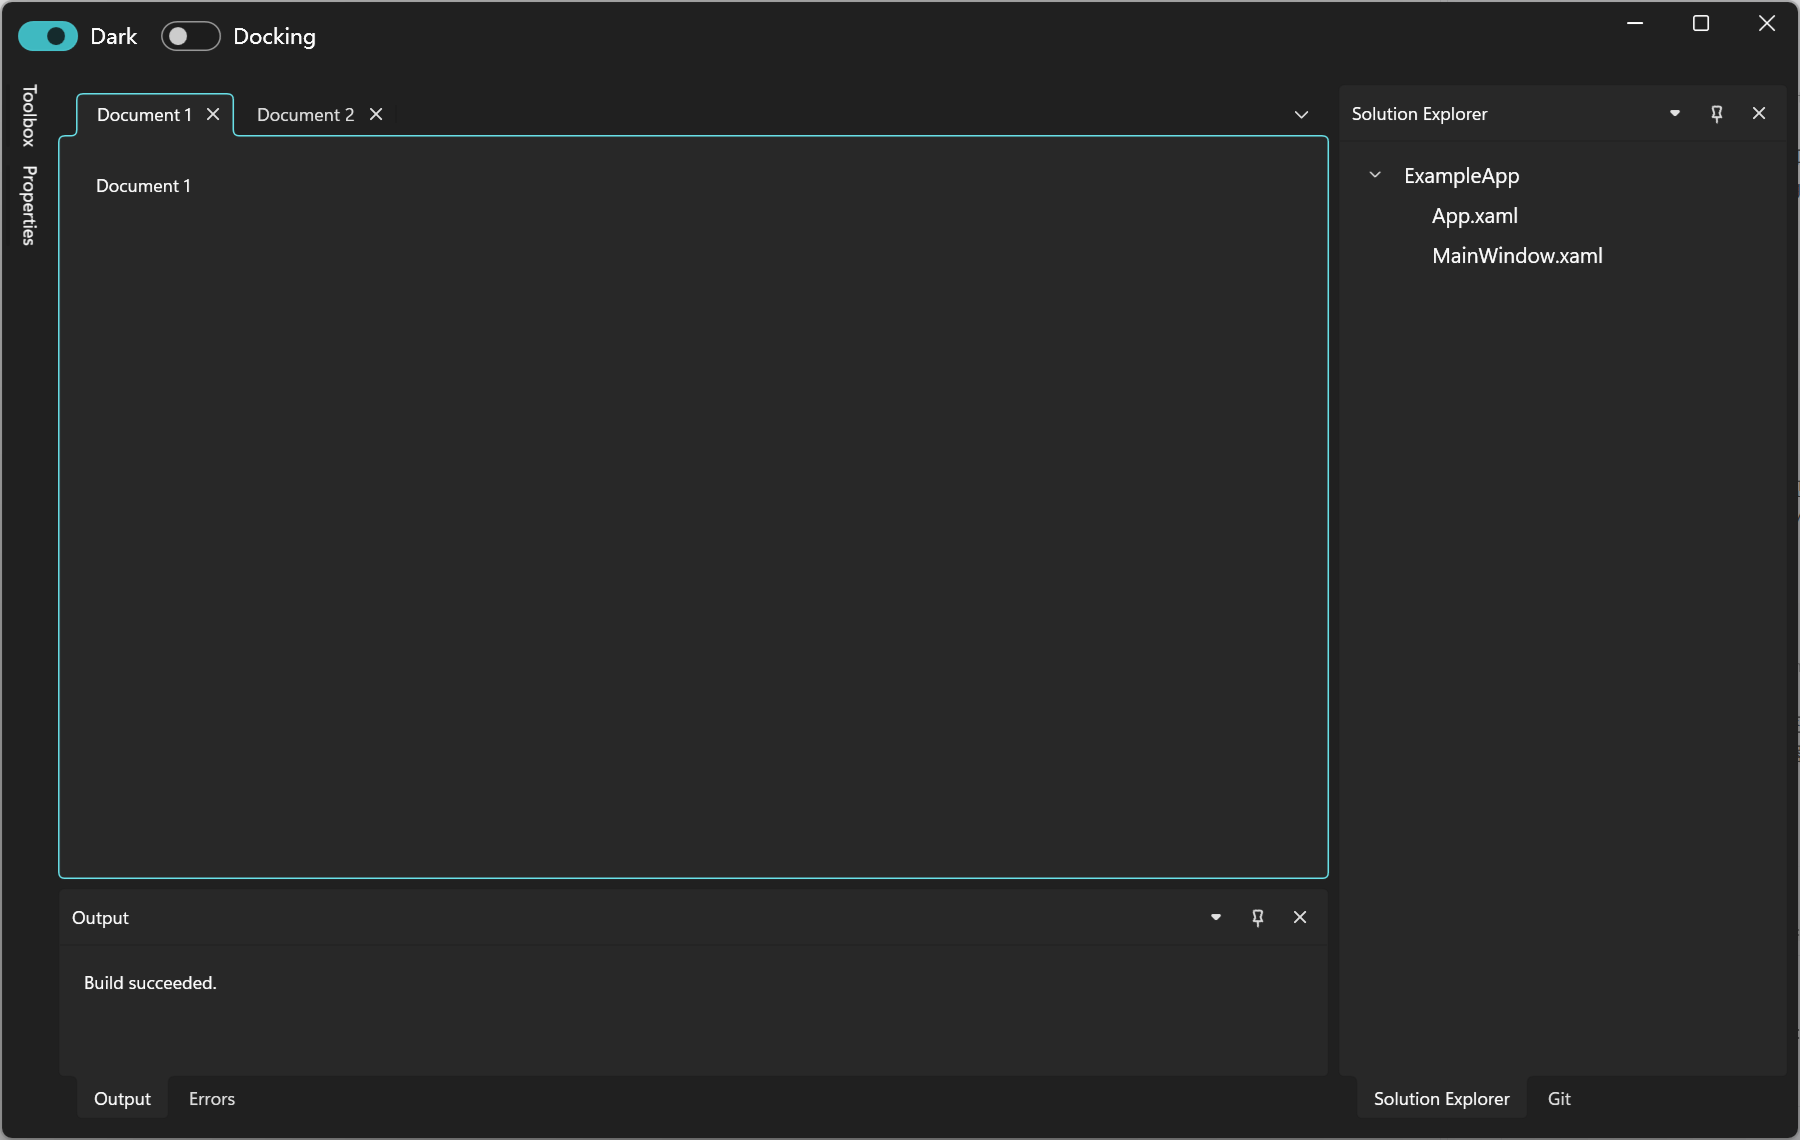
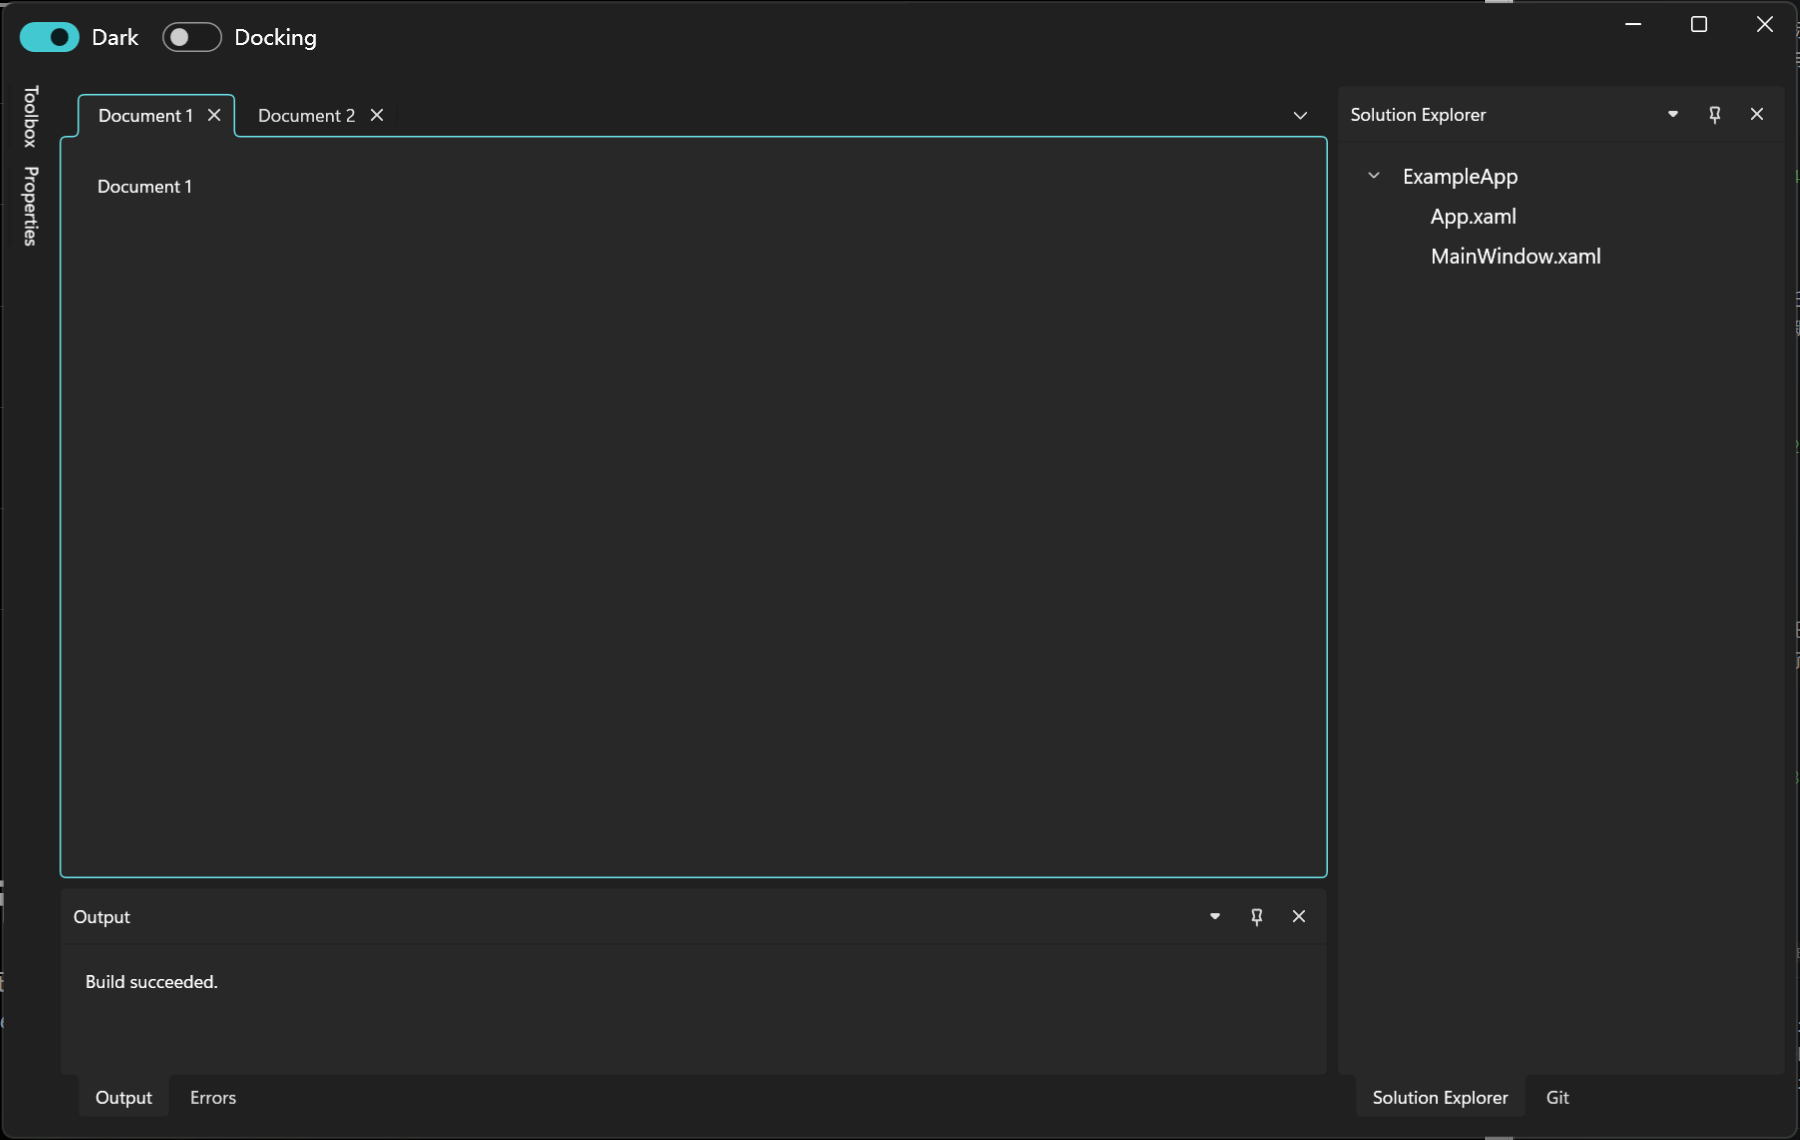
Refine floating pane border and previews
Add a DockPaneSurface behind the pane border, switch floating-window styling to a MultiDataTrigger for the single-item case, and update docking/floating/toggle preview PNG assets.

diff --git a/src/AvalonDock.Themes.WPFUI/Styles/LayoutAnchorablePaneControl.xaml b/src/AvalonDock.Themes.WPFUI/Styles/LayoutAnchorablePaneControl.xaml
@@ -40,10 +40,14 @@
                             <RowDefinition Height="*" />
                             <RowDefinition Height="Auto" />
                         </Grid.RowDefinitions>
+                        <controls:DockPaneSurface Grid.RowSpan="2"
+                                                  ContentPanel="{Binding ElementName=ContentPanel}"
+                                                  CornerRadius="{Binding CornerRadius, ElementName=PaneBorder}"
+                                                  Fill="{TemplateBinding Background}" />
                         <controls:DockPaneSurface x:Name="PaneBorder"
                                                   Grid.RowSpan="2"
+                                                  Panel.ZIndex="1"
                                                   ContentPanel="{Binding ElementName=ContentPanel}"
-                                                  Fill="{TemplateBinding Background}"
                                                   Stroke="{TemplateBinding BorderBrush}" />
                         <Border x:Name="ContentPanel"
                                 Grid.Row="0"
@@ -86,11 +90,16 @@
                                      Value="1">
                             <Setter TargetName="TabStrip" Property="Visibility" Value="Collapsed" />
                         </DataTrigger>
-                        <DataTrigger Binding="{Binding Model.IsDirectlyHostedInFloatingWindow, RelativeSource={RelativeSource Self}}"
-                                     Value="True">
+                        <MultiDataTrigger>
+                            <MultiDataTrigger.Conditions>
+                                <Condition Binding="{Binding Model.IsDirectlyHostedInFloatingWindow, RelativeSource={RelativeSource Self}}"
+                                           Value="True" />
+                                <Condition Binding="{Binding Items.Count, RelativeSource={RelativeSource Self}}"
+                                           Value="1" />
+                            </MultiDataTrigger.Conditions>
                             <Setter TargetName="PaneBorder" Property="CornerRadius" Value="0" />
                             <Setter TargetName="PaneBorder" Property="Stroke" Value="Transparent" />
-                        </DataTrigger>
+                        </MultiDataTrigger>
                     </ControlTemplate.Triggers>
                 </ControlTemplate>
             </Setter.Value>
